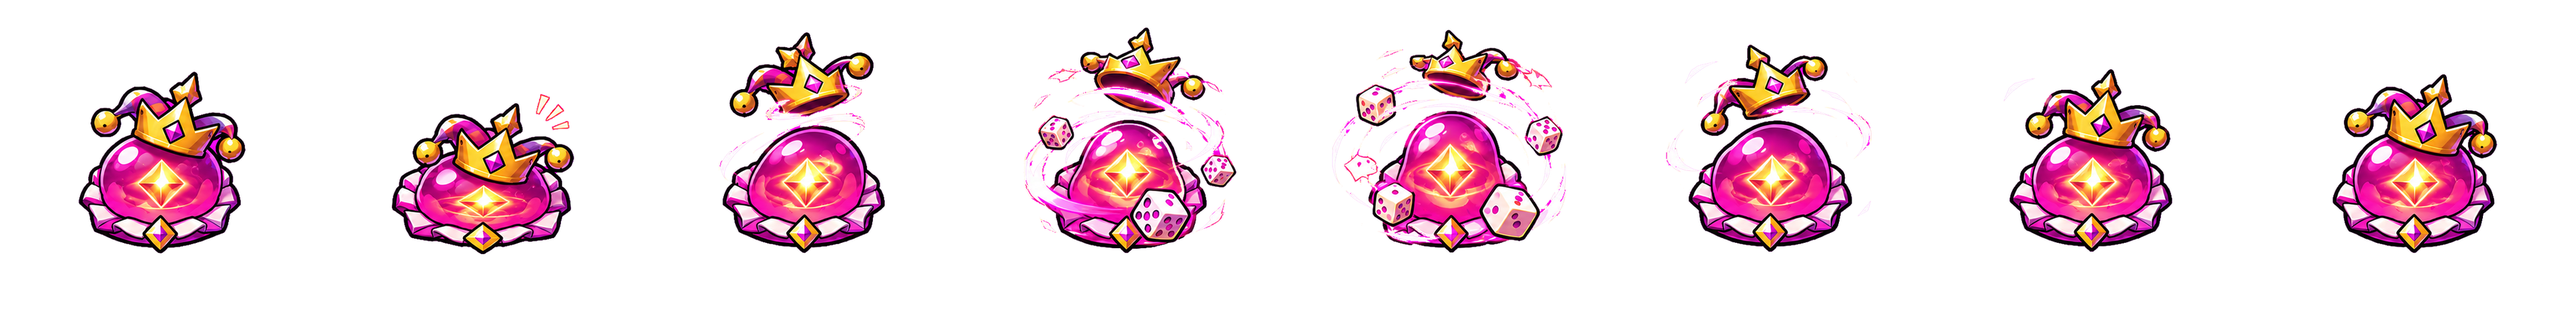
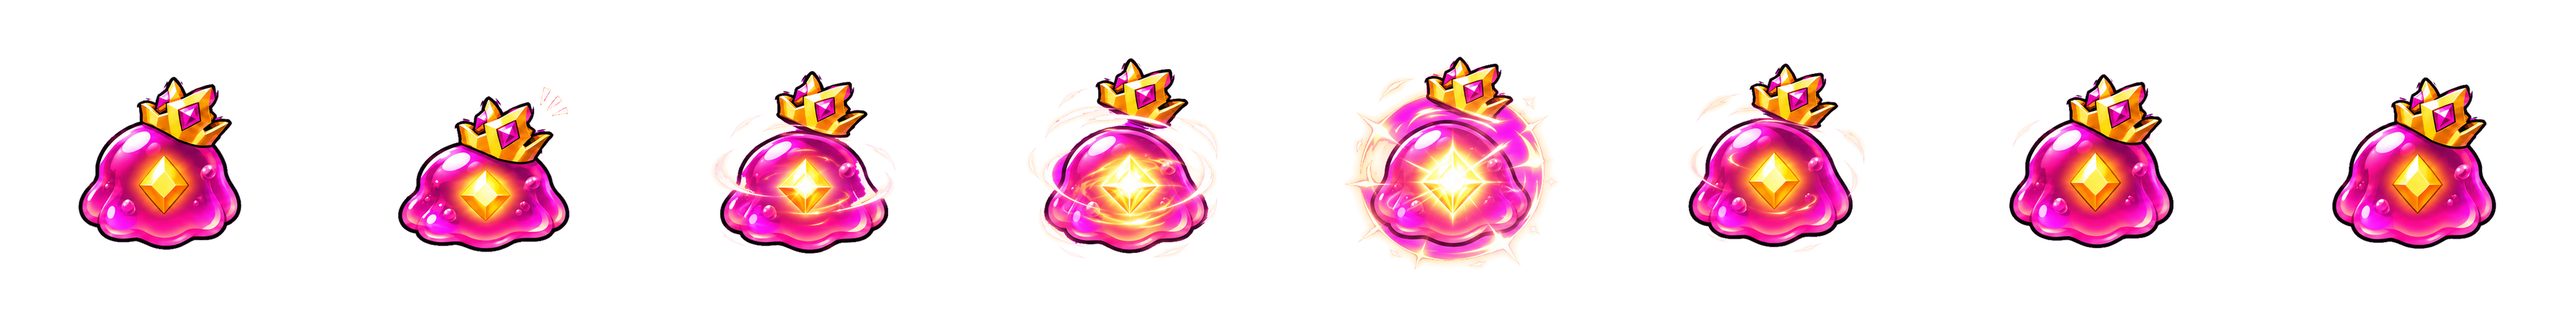
thap: Mad Crown — vẽ lại dải tung chiêu cùng thiết kế dải đi (bỏ mũ hề/chuông/cổ bèo), cắt _v2 khớp thân IoU 0,979, lệch tâm 0,3%; ảnh trước/sau
Claude-Session: https://claude.ai/code/session_01KQA7LFBkcdkiPiLcwYs7V2

diff --git a/tools/thap-cat-trum2.py b/tools/thap-cat-trum2.py
@@ -198,7 +198,7 @@ def lam(id, trum):
     if trum:
         cp = os.path.join(ART, 'raw_trum2_%s_chieu_v2.png' % id)
         if not os.path.exists(cp): cp = os.path.join(ART, 'raw_trum2_%s_chieu.png' % id)
-        if CHAN_VIEN[0]: CHAN_VIEN[0] = 1  # dải chiêu: còn túi nền thật giữa vòng xoáy
+        if CHAN_VIEN[0] and not cp.endswith('_v2.png'): CHAN_VIEN[0] = 1  # dải chiêu cũ: còn túi nền thật giữa vòng xoáy (bản _v2 mad_crown 08/11 không có túi kín → giữ 2: mảng hồng-tím trong thân thạch không bị khoét)
         ch = o_luoi(cp)
         # khớp thân (08/11 sửa lệch): khung chiêu 8 (trung tính) ↔ khung đi trung tính (1 hoặc 8) bằng KHỚP MẶT NẠ alpha
         #  (dò tỉ lệ + tịnh tiến cho IoU lớn nhất). Cách cũ (tâm lõi ăn mòn + diện tích) lệch tới 15% ô ở janus/prism/jammer/patcher

diff --git a/docs/pixel/DANH-SACH.md b/docs/pixel/DANH-SACH.md
@@ -1630,3 +1630,4 @@ Mục để các session sau ghi **hình mới** phát sinh ngoài danh sách tr
 | claude/demo-hop-tuong (nhóm B, 08/11) | `thap/nemesis-thuoc`, `thap/khoisinh-luot`, `thap/blackhole-vong` | 4×4 chấm | vẽ code bằng chấm PNG tô màu: thước 10 đòn Nemesis (skills4.js veThem), chấm lượt còn lại Lõi Khởi Sinh (skills5.js veThem), vòng tím "SINGULARITY đã nạp" Hố Đen (skills.js veThem) | chưa có bản pixel |
 | claude/demo-hop-tuong | `u/canon_de_<1–15>` | 48×48 | Bệ Pháo La Bàn theo 15 tổ hợp hướng (N S W E · NS NW NE SW SE WE · NSW NSE NWE SWE · NSWE): gai la bàn hướng ĐANG CÓ sáng xanh + mũi tên, hướng không có tối — bit 1 N · 2 E · 4 S · 8 W | chưa vẽ pixel: ảnh ChatGPT `thap/assets/canon_de_<1–15>.png` (cắt `tools/thap-cat-laban.py`); dự phòng khi chưa tải = bệ `canon_de` + chấm sáng/tối PNG (`comoi.js` CM.veDe); chevron `duong_mui` trên đầu súng (CM.veMui) |
 | claude/demo-hop-tuong | `fx/canon_ten` | 24×10 | Tên lửa đuổi Pháo La Bàn (vàng, ngọc la bàn xanh, vệt lửa cam-xanh), mũi chĩa phải | chưa vẽ pixel: ảnh ChatGPT `thap/assets/fx_canon_ten.png` (FXU.THAY.ten_laban; chưa có → `fx_lien_dan`) |
+| claude/demo-hop-tuong | `thap/trum-mad-crown-chieu` | 8 khung, ô = ô dải đi ×1,5 | dải tung chiêu Mad Crown vẽ lại 08/11 cùng thiết kế dải đi (slime hồng, ngọc vàng, vương miện; không tay chân, không mắt; vòng năng lượng giữa thân) — `thap/assets/trum_mad_crown_atk_16.png` (tools/thap-cat-trum2.py) | chưa có bản pixel (thap/ không dùng hệ pixel); dự phòng: chưa nạp dải chiêu → vẽ dải đi `trum_mad_crown_8` (quaianim.js) |
